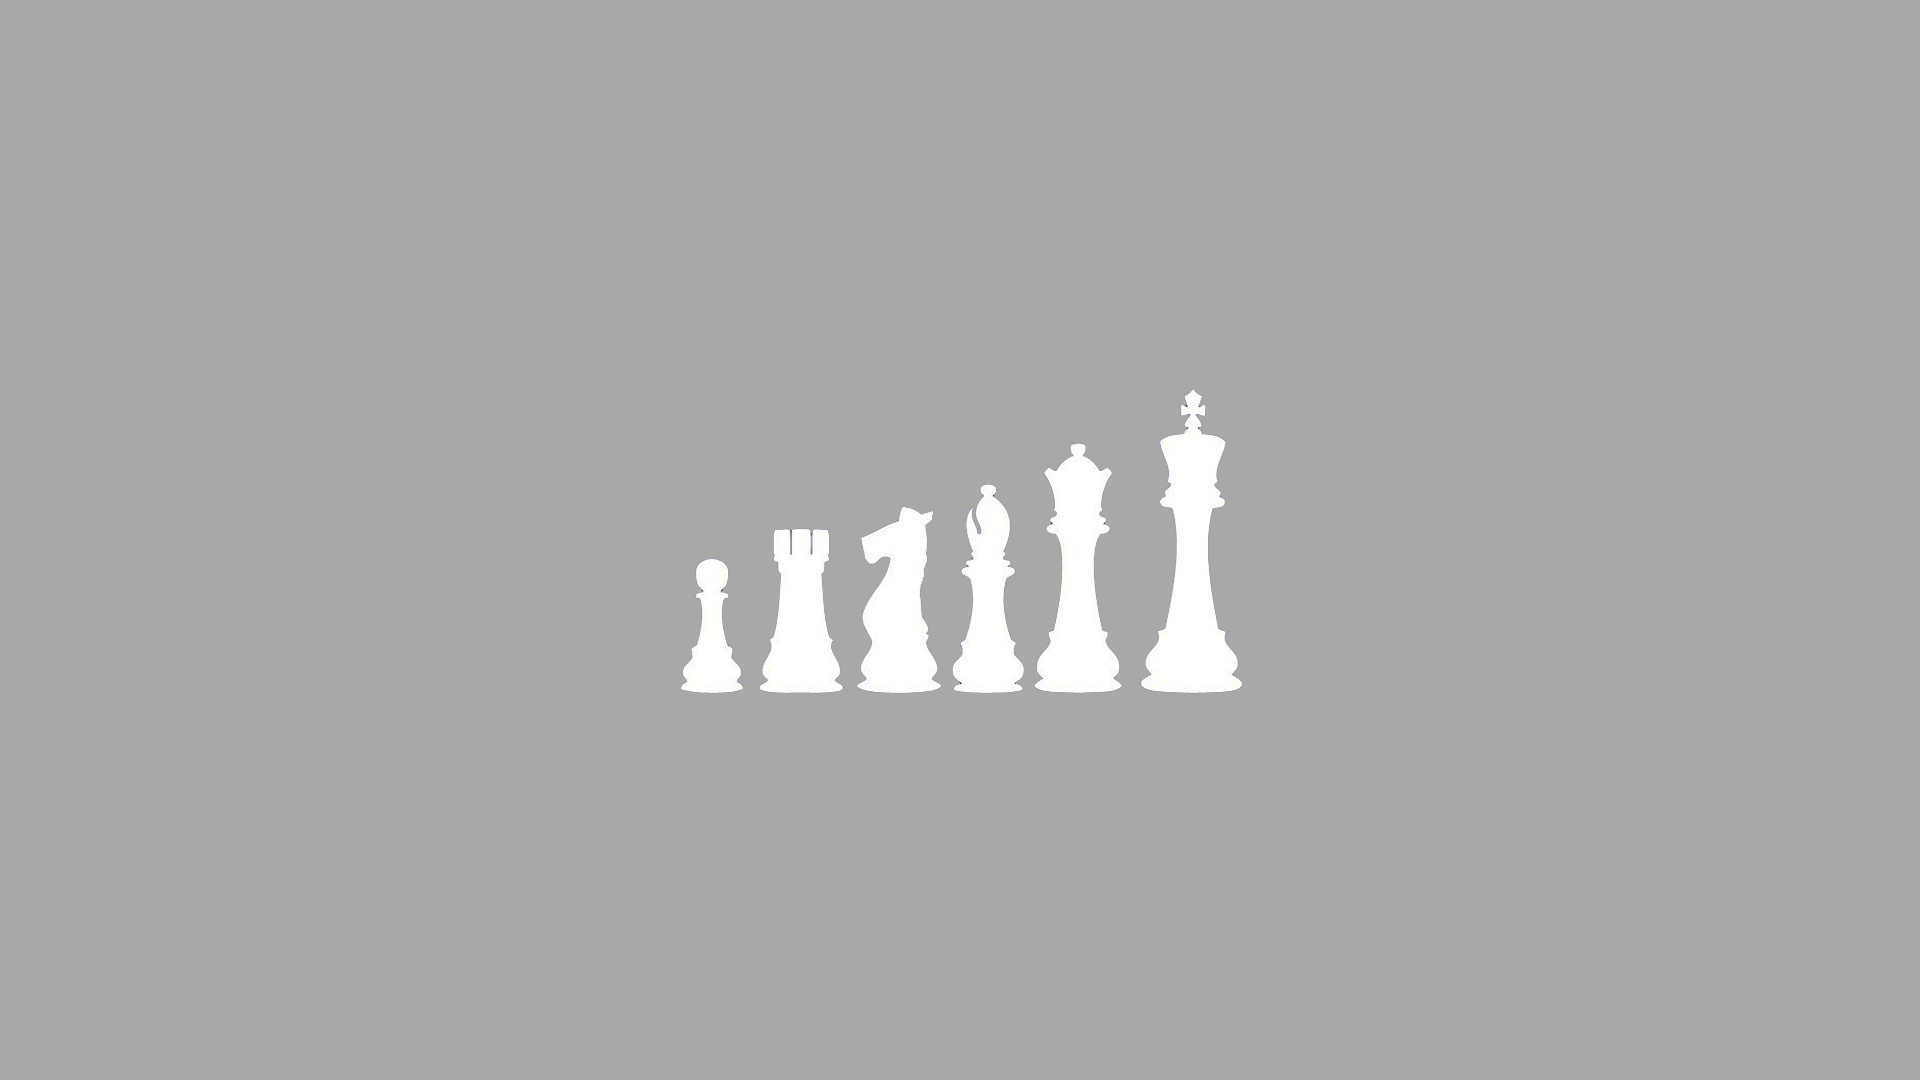
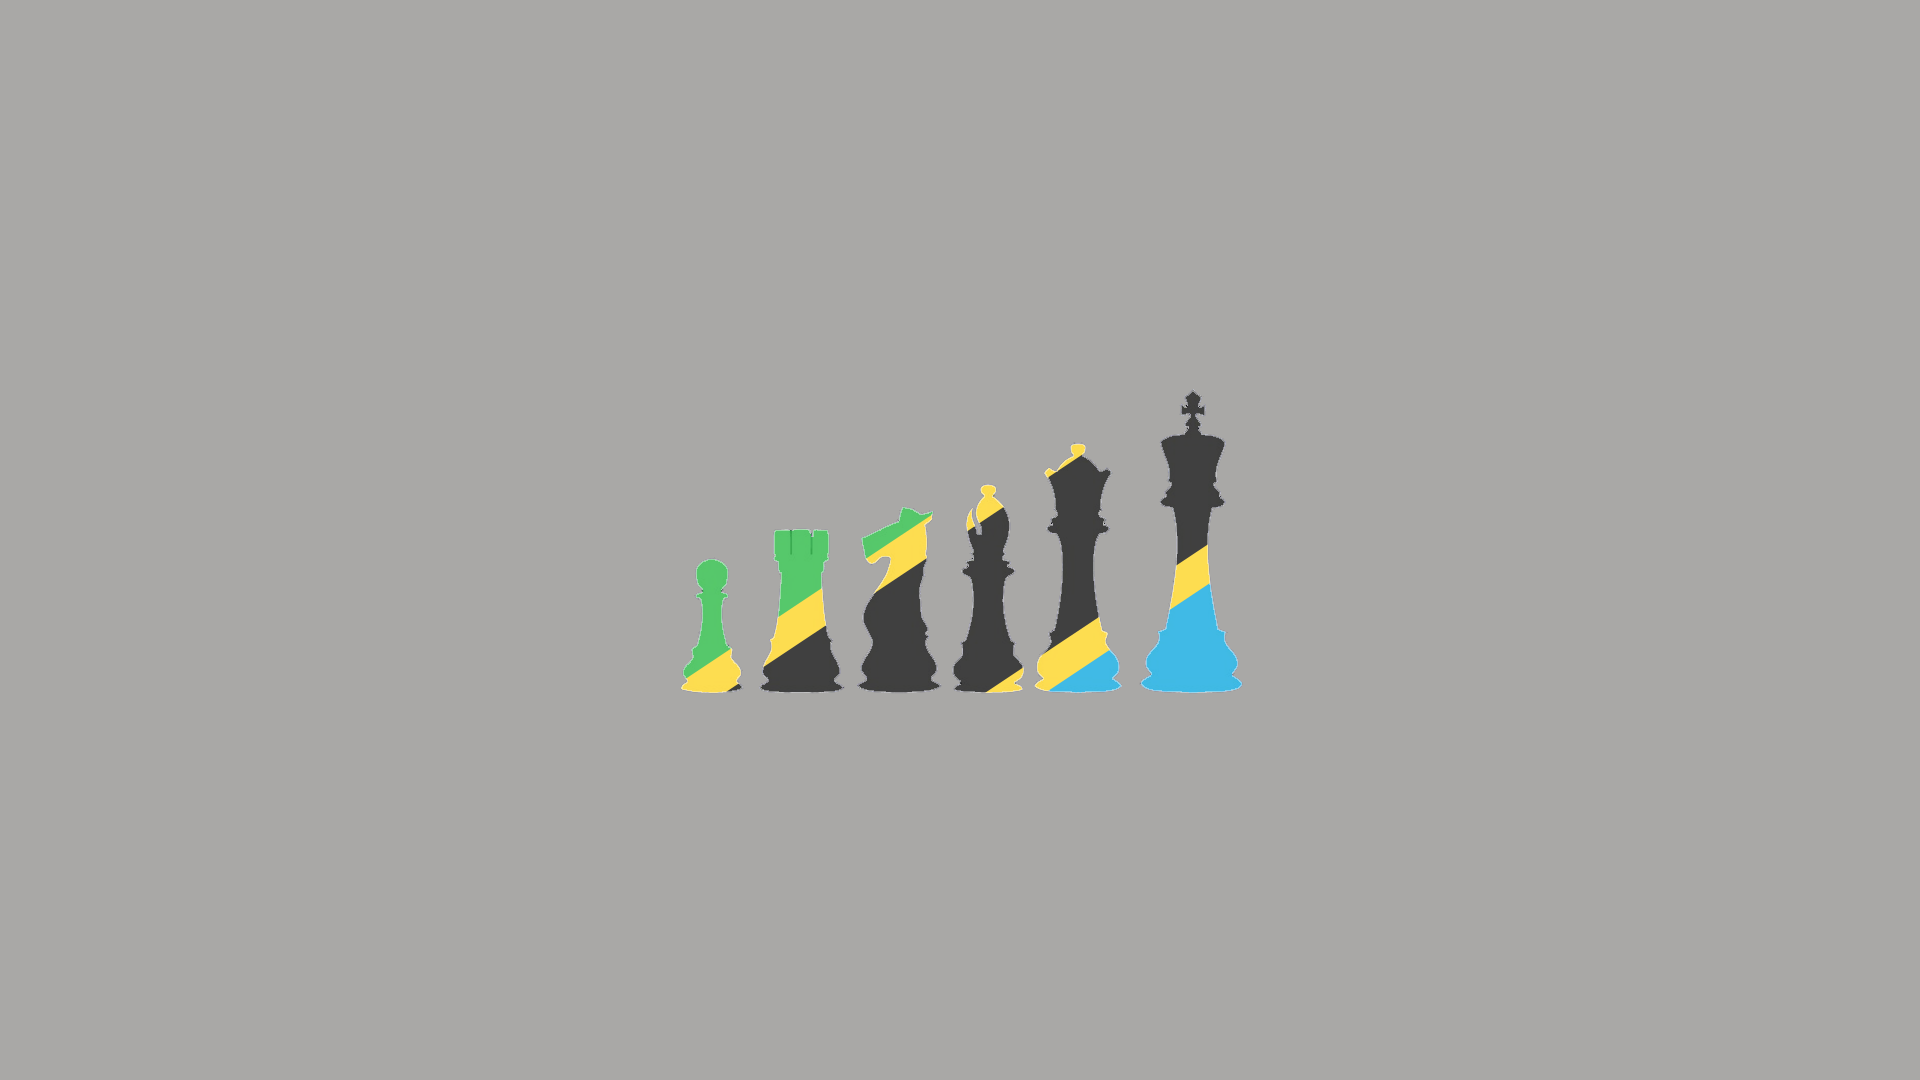
Updated

Changed region(s): [[0.3438, 0.3667, 0.6562, 0.6417]]

diff --git a/src/App.css b/src/App.css
@@ -55,7 +55,7 @@ nav ul li a::after {
   content: '';
   width: 0;
   height: 3px;
-  background: #ff004f;
+  background: #fcd116;
   position: absolute;
   left: 0;
   bottom: -6px;
@@ -82,7 +82,11 @@ nav ul li a:hover::after {
 }
 
 .header-text h1 x {
-  color: #ff004f;
+  color: #fcd116;
+}
+
+.header-text h1 y {
+  color: #1eb53a;
 }
 
 /*----------------------List------------------------*/
@@ -90,7 +94,7 @@ nav ul li a:hover::after {
   padding: 35px 0;
 }
 
-.sub-title{
+.sub-title {
   font-size: 45px;
   color: #000;
 }
@@ -145,7 +149,7 @@ nav ul li a:hover::after {
   color: #fff;
 }
 
-.table-row-head{
+.table-row-head {
   background-color: #cd7f32;
   color: #fff;
 }
@@ -234,7 +238,7 @@ nav ul li a:hover::after {
   font-weight: bold;
 }
 
-.matches-list div li{
+.matches-list div li {
   margin-bottom: 7px;
 }
 
@@ -256,7 +260,7 @@ nav ul li a:hover::after {
   padding: 35px 0;
 }
 
-.sub-title{
+.sub-title {
   font-size: 45px;
   color: #000;
 }
@@ -353,6 +357,38 @@ nav .fa-solid.fa-xmark,
 
   .list-col-2 {
     font-size: 14px;
+  }
+
+
+  .sub-title {
+    font-size: 30px;
+    color: #000;
+  }
+
+  .league-col-1 {
+    flex-basis: 50%;
+  }
+
+  .league-col-1 h2 {
+    font-size: 17px;
+    color: #000;
+    text-align: center;
+    margin-bottom: 10px;
+  }
+
+  .league-col-2 {
+    flex-basis: 50%;
+  }
+
+  .league-col-2 h2 {
+    font-size: 17px;
+    color: #000;
+    text-align: center;
+    margin-bottom: 10px;
+  }
+
+  .table-container h2 {
+    font-size: 17px;  
   }
 
   .copyright {

diff --git a/public/index.html b/public/index.html
@@ -24,7 +24,7 @@
       work correctly both with client-side routing and a non-root public URL.
       Learn how to configure a non-root public URL by running `npm run build`.
     -->
-    <title>React App</title>
+    <title>Chesswahili</title>
   </head>
   <body>
     <noscript>You need to enable JavaScript to run this app.</noscript>

diff --git a/src/App.js b/src/App.js
@@ -20,7 +20,7 @@ export function App() {
         </nav>
         <div class="header-text">
           <p>Welcome to Chesswahili</p>
-          <h1>Every single <x>chess player</x> is an <x>Artist</x>
+          <h1>Every single chess player is an Artist
           </h1>
         </div>
       </div>
